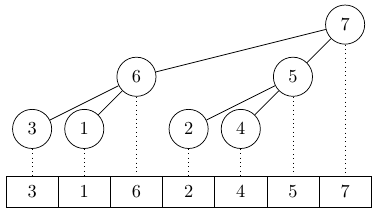
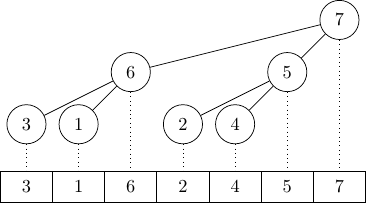
Use standalone document class for poplar graph

diff --git a/graphs/poplar.tex b/graphs/poplar.tex
@@ -1,4 +1,4 @@
-\documentclass{article}
+\documentclass{standalone}
 \usepackage{tikz}
 \pagestyle{empty}
 
